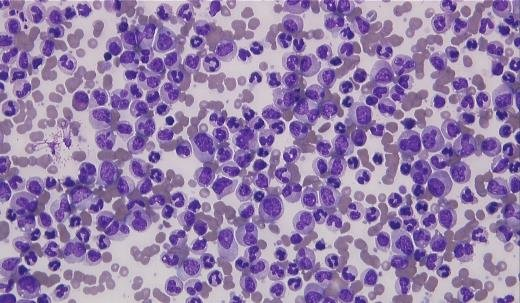
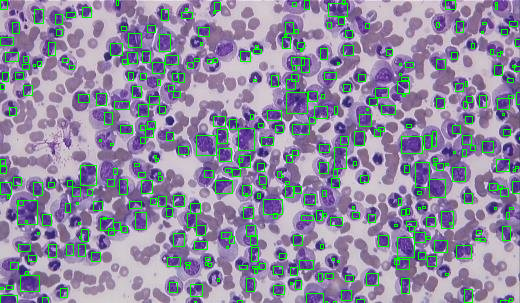
Created ReadMe.md

diff --git a/NucleiCounter.py b/NucleiCounter.py
@@ -4,12 +4,27 @@ import os
 
 #region Variables to change scripts functionality
 
-# Define image path and extract image name and file type
-image_path = "sample2.jpg"  # Change to your image path
+# Set default values
+default_image_path = "sample.png"  # Change to your image path
+default_printAllCircledNuclei = True  # Default to print all highlighted nuclei
+default_cleanMask = True  # Default to clean the mask
+
+# Input for image path
+image_path = input(f"Enter image path (default: {default_image_path}): ") or default_image_path
 imageName, fileType = os.path.splitext(os.path.basename(image_path))
 
-printAllCircledNuclei = True # do you want to print all highlighted nuclei or filter out small ones?
-cleanMask = True # do you want to clean the mask (eg auto filter out small areas from being included in the count)?
+# Input for printAllCircledNuclei
+printAllCircledNuclei_input = input(f"Do you want to print all highlighted nuclei (default: {default_printAllCircledNuclei})? (y/n): ")
+printAllCircledNuclei = printAllCircledNuclei_input.lower() == 'y' if printAllCircledNuclei_input else default_printAllCircledNuclei
+
+# Input for cleanMask
+cleanMask_input = input(f"Do you want to clean the mask (default: {default_cleanMask})? (y/n): ")
+cleanMask = cleanMask_input.lower() == 'y' if cleanMask_input else default_cleanMask
+
+# Output results to verify
+print(f"Image Path: {image_path}")
+print(f"Print All Circled Nuclei: {printAllCircledNuclei}")
+print(f"Clean Mask: {cleanMask}")
 
 #endregion
 
@@ -88,14 +103,12 @@ if image is None:
 
 # Display the input image
 cv2.imshow("Input Image", image)
-cv2.waitKey(0)
 
 # Convert to HSV color space
 hsv_image = cv2.cvtColor(image, cv2.COLOR_BGR2HSV)
 
 # Display the HSV image for debugging
 cv2.imshow("HSV Image", hsv_image)
-cv2.waitKey(0)
 
 # Create a resizable window and trackbars for adjusting HSV ranges
 cv2.namedWindow("Mask", cv2.WINDOW_NORMAL)  # Make window resizable
@@ -143,7 +156,7 @@ mask = cv2.inRange(hsv_image, lower_purple, upper_purple)
 # Optional: Morphological opening to reduce small noise in mask
 # MODIFY THIS EG IF YOU WANT SMALL ONES, AS NUCLEI MAY BE VERY SMALL SO WE MAY NOT WANT TO REMOVE THEM
 if(cleanMask):
-    kernel = np.ones((0, 0), np.uint8)
+    kernel = np.ones((2, 2), np.uint8)
     cleaned_mask = cv2.morphologyEx(mask, cv2.MORPH_OPEN, kernel, iterations=1)
 else:
     cleaned_mask = mask # quick and dirty if you just want to keep it the same
@@ -155,7 +168,6 @@ else:
 
 # Display the mask for debugging
 cv2.imshow("Cleaned Mask", cleaned_mask)
-cv2.waitKey(0)
 
 # Use connected components to label each detected nucleus in the mask
 num_labels, labels, stats, centroids = cv2.connectedComponentsWithStats(cleaned_mask, connectivity=8)
@@ -165,7 +177,7 @@ for i in range(1, num_labels):  # Skip the background label (label 0)
     x, y, w, h, area = stats[i]
     if printAllCircledNuclei or 50 < area < 1000:  # Filter nuclei based on area
         cv2.rectangle(image, (x, y), (x + w, y + h), (0, 255, 0), 1)
-        cv2.putText(image, str(i), (x, y - 10), cv2.FONT_HERSHEY_SIMPLEX, 0.1, (0, 0, 255), 2)
+        # cv2.putText(image, str(i), (x, y - 10), cv2.FONT_HERSHEY_SIMPLEX, 0.1, (0, 0, 255), 2)
 
 # Construct the output filename using imageName and fileType
 output_filename = f"{imageName}_labeled{fileType}"

diff --git a/ReadMe.md b/ReadMe.md
@@ -1,0 +1,45 @@
+# Interactive Nucleus Counter Project
+
+## Technical Description
+
+This Python script utilizes OpenCV to detect and label nuclei in an image based on user-defined HSV (Hue, Saturation, Value) color ranges. It allows for real-time adjustments of these ranges through trackbars and can filter out small detected nuclei based on area.
+
+### Features
+
+- **Dynamic HSV Thresholding**: Users can adjust the HSV thresholds interactively using trackbars to fine-tune the detection of purple nuclei in the image.
+- **Mask Cleaning Option**: The script can clean the mask using morphological operations to reduce noise, with a toggle to include or exclude small areas from the analysis.
+- **Nuclei Detection**: It employs connected components analysis to identify and label each detected nucleus in the binary mask.
+- **Output**: The script generates an output image with bounding boxes around detected nuclei and saves it to disk.
+
+### Requirements
+
+- Python 3.x
+- OpenCV (`cv2`)
+- NumPy
+
+## User Guide
+
+To run the script, ensure you have your environment set up with the required packages, and execute:
+
+```bash
+python nuclei_detection.py
+```
+![InitialInputs](./docs/images/1_initialInputs.png)
+
+1. You will be prompted to enter the:
+   1. Image Path
+   2. If you want to circle all found nuclei or only the large ones (recommend all)
+   3. If you want to clean the mask (recommended to clean)
+
+2. You can either use the default values by just pressing `Enter` or input your own values.
+
+![MaskSelector](./docs/images/2_maskSelector.png)
+
+3. A window will pop up with the original image and a mask of the detected nuclei. You can adjust the HSV values using the trackbars to fine-tune the detection. Use the Value Indicators to help you find the right values. 
+   
+4. Then when the mask looks good, press `d` (for done) to continue.
+   
+![Output](./docs/images/3_output.png)
+
+5. You will now see the cleaned mask that was used (if you chose to clean it), the original image with bounding boxes around the detected nuclei, and the number of nuclei found outputted in the console.
+6. The output image will be saved in the same directory as the script with the same name as the input image but with `_labeled` appended to the name.
